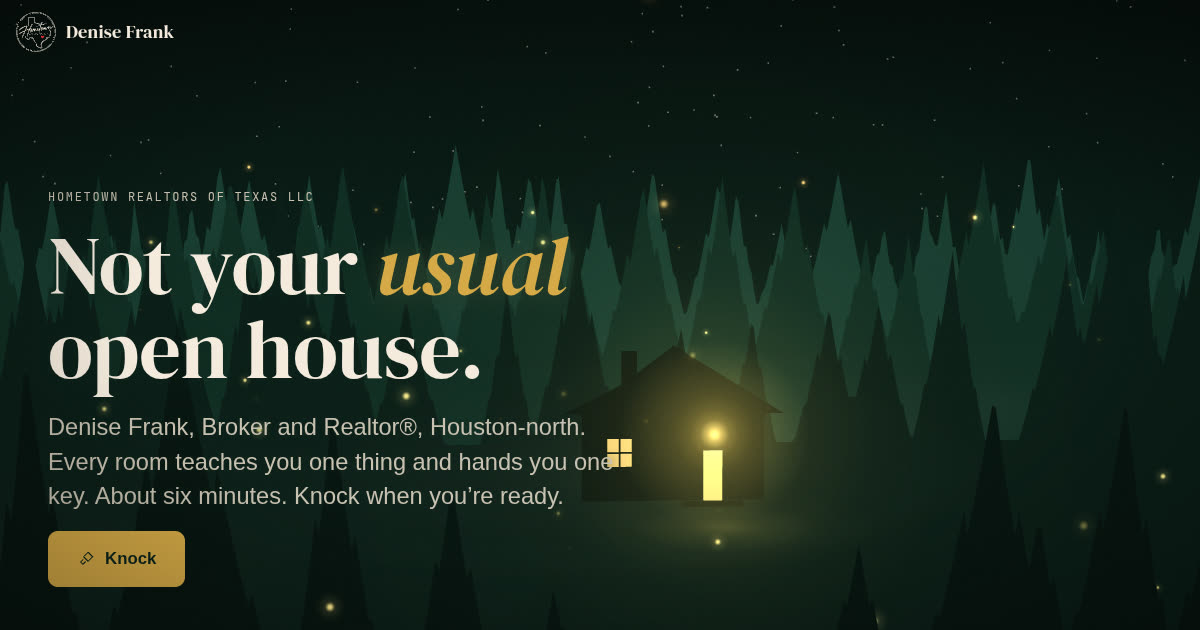
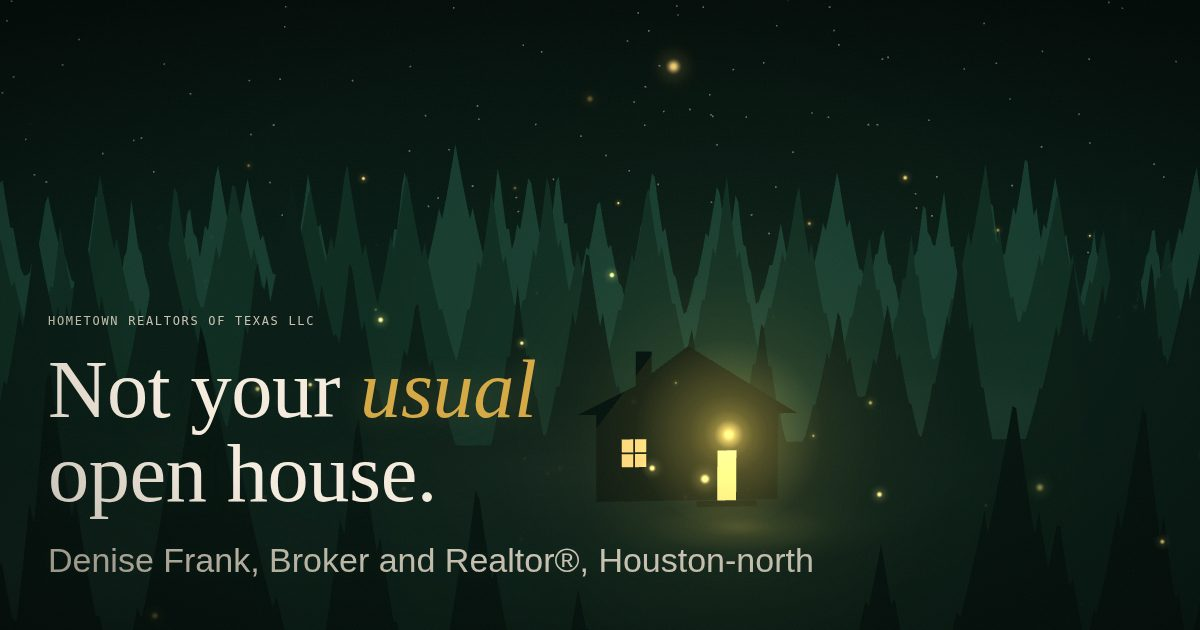
site: phone porch composition (copy high, house low), shot script serves the side build, retro draft
Claude-Session: https://claude.ai/code/session_016KVkTiBzA2veb7rcuRU9q6

diff --git a/site/src/scenes/porch.js b/site/src/scenes/porch.js
@@ -233,12 +233,13 @@ export function createPorchScene(canvas, { reduced = false, lowPower = false } =
   function applyCamera() {
     const p = state.reduced ? { x: 0, y: 0 } : state.pointerSmooth;
     const t = state.scroll;
-    // Portrait screens: look further down so the lit house rises above the headline.
+    // Portrait screens: pull back and look up so the house sits small in the lower third,
+    // under the copy, with its ridge near 68vh.
     const portrait = camera.aspect < 0.8 ? 1 : camera.aspect < 1.1 ? 0.5 : 0;
-    camera.position.x = camBase.x + p.x * 0.4 + t * 0.5 - portrait * 0.3;
-    camera.position.y = camBase.y + p.y * 0.2 - t * 0.35 - portrait * 0.4;
-    camera.position.z = camBase.z - t * 1.9;
-    camera.lookAt(camera.position.x * 0.5 + 0.5 + portrait * 0.2, camBase.y - 0.45 - t * 0.5 - portrait * 1.1, -12);
+    camera.position.x = camBase.x + p.x * 0.4 + t * 0.5 - portrait * 0.2;
+    camera.position.y = camBase.y + p.y * 0.2 - t * 0.35 + portrait * 0.3;
+    camera.position.z = camBase.z - t * 1.9 + portrait * 1.6;
+    camera.lookAt(camera.position.x * 0.5 + 0.5 + portrait * 0.3, camBase.y - 0.45 - t * 0.5 + portrait * 1.35, -12);
     glow.material.opacity = 0.55 + t * 0.3;
     core.material.opacity = 0.95;
   }

diff --git a/site/src/styles/rooms.css b/site/src/styles/rooms.css
@@ -59,6 +59,11 @@ html:not(.reduced-motion) .room-porch .porch-copy { position: sticky; top: 0; he
 .porch-fallback-note { position: absolute; left: var(--gutter); top: calc(72px + env(safe-area-inset-top, 0px)); font-family: var(--font-mono); font-size: var(--fs-label); color: var(--c-ink2); z-index: 2; max-width: 40ch; }
 .scroll-cue { position: absolute; right: var(--gutter); bottom: clamp(24px, 5vh, 56px); z-index: 2; font-family: var(--font-mono); font-size: var(--fs-label); letter-spacing: 0.12em; text-transform: uppercase; color: var(--c-ink2); display: flex; align-items: center; gap: 8px; }
 @media (max-width: 767px) { .scroll-cue { display: none; } .porch-copy { bottom: 110px; } }
+@media (max-width: 600px) {
+  .porch-copy { top: 14vh; bottom: auto; }
+  html:not(.reduced-motion) .room-porch .porch-copy { align-content: start; padding-top: 14vh; padding-bottom: 0; }
+  .hero-sub { font-size: 1.05rem; }
+}
 .porch-scene.is-knocked .porch-static { filter: brightness(1.15); }
 
 /* Phone-width tightening */

diff --git a/docs/ERRORS.md b/docs/ERRORS.md
@@ -457,3 +457,42 @@ minutes and blocked the benchmark until they were stopped by PID). Read flags fr
 
 **Prevention.** Time the thing before designing the fix; a speed spec starts with a
 table of measurements and names the hypothesis it killed.
+
+---
+
+## 2026-10-06 — The Unusual Open House (Denise Frank's journey site): retro at the review gate
+
+**What was built:** `site/`, a Vite + vanilla JS progressive-game site for Denise Frank
+(Hometown Realtors of Texas): eight rooms, seven keys and an empty hook, a Three.js porch
+with a static SVG fallback, Lenis and ScrollTrigger on the porch only, procedural Web Audio,
+a keyring HUD, localStorage progress, the no-JS document rendered from one copy source, axe
+and copy gates, proof and play-through scripts. Five-role team (creative director, UX, UI,
+accessibility, developer) briefed in parallel from one dossier, then reviewed the real build.
+
+**What worked:**
+- One copy source (`src/content/copy.js`) feeding both the static document and the
+  interactive rooms, with `scripts/lint-copy.mjs` as the voice and Fair Housing gate. Zero
+  em dashes shipped without anyone proofreading for them.
+- Briefing four specialists in parallel from one written dossier, then having the same
+  roles critique rendered frames, not code. The creative director's second pass found what
+  no gate measures: a quoted default interest rate, a finale that read as a footer icon row,
+  cards that lost their word when flipped.
+- A scripted play-through (`scripts/play.mjs`) that earns every key. It caught the HUD
+  button sitting under page content (`display: contents` dropped the nav's z-index), which
+  axe and the rest-frame proof both passed.
+
+**What did not:**
+- The mascot photos could not be fetched: the sandbox egress policy denies the brokerage's
+  host (403 on CONNECT) even though Firecrawl could read the page. Drawn linework portraits
+  hold the frames; the four files are listed in `site/README.md` for Denise to drop in.
+- Headless Chromium did not trust the proxy CA, so the first proof frames rendered in
+  fallback fonts and typography could not be judged. Fixed in the harness only
+  (`ignoreHTTPSErrors` for the proof browser); the policy still applies.
+- SVG `font-size` in CSS px overrode viewBox-unit attribute sizes and blew the map up to
+  unreadable; and a label split into two spans (`display:none` plus `aria-hidden`) silently
+  removed the Skip link's accessible name at phone width. axe caught the second; only a
+  rendered frame caught the first.
+
+**The one change:** every visual change ships with the frame that proves it. The proof and
+play scripts take a side `OUT_DIR` so reviewers' preview servers are never rebuilt under
+them, and the creative director reviews frames before the accessibility auditor runs.
